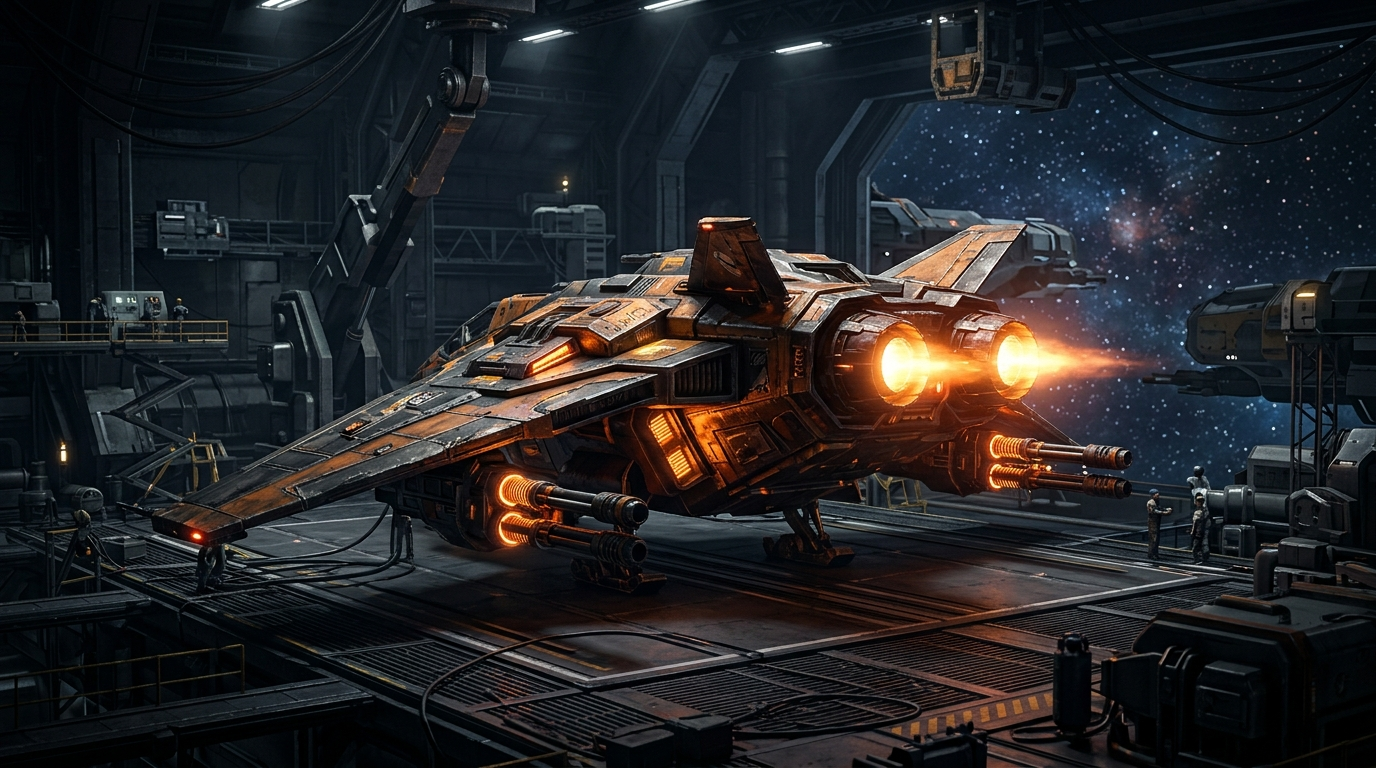
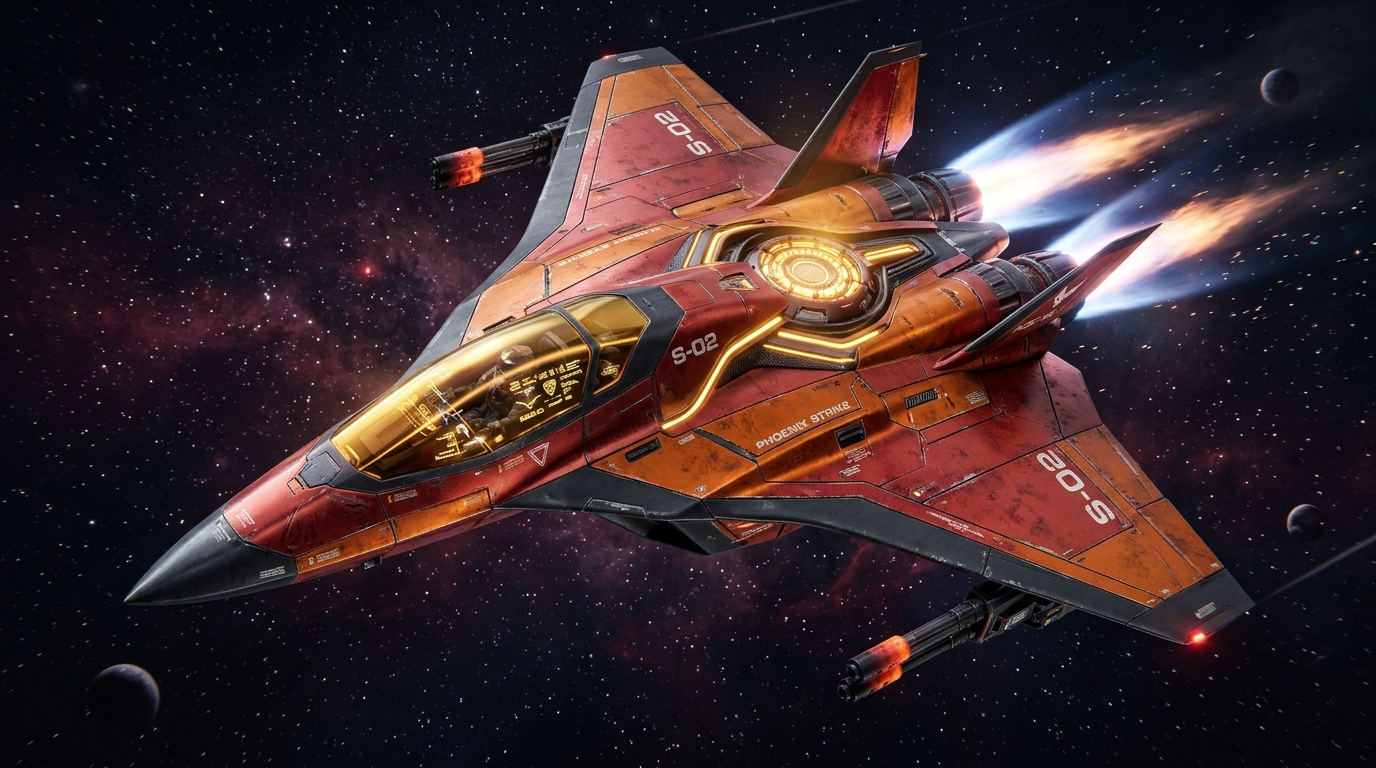
feat(assets): replace stock striker artwork with authentic S-02 Phoenix Strike starfighter render on dashboard and hangar

diff --git a/client/src/pages/DashboardPage.jsx b/client/src/pages/DashboardPage.jsx
@@ -163,7 +163,7 @@ export const DashboardPage = ({ onNavigate, onLaunchQuickCombat, _selectedShip }
   const getShipIllustration = (shipId, shipCode) => {
     const combined = `${shipId || ''} ${shipCode || ''}`.toLowerCase();
     if (combined.includes('nova') || combined.includes('z05') || combined.includes('z-05')) return '/assets/ships/ship_nova.jpg';
-    if (combined.includes('phoenix') || combined.includes('s02') || combined.includes('s-02')) return '/assets/ships/ship_phoenix.jpg';
+    if (combined.includes('phoenix') || combined.includes('s02') || combined.includes('s-02')) return '/assets/ships/ship_phoenix.jpg?v=2';
     if (combined.includes('shadow') || combined.includes('x03') || combined.includes('x-03')) return '/assets/ships/ship_shadow.jpg';
     if (combined.includes('titan') || combined.includes('r04') || combined.includes('r-04')) return '/assets/ships/ship_titan.jpg';
     return '/assets/ships/ship_orbitron.jpg';

diff --git a/client/src/components/HangarView.jsx b/client/src/components/HangarView.jsx
@@ -40,7 +40,7 @@ const SHIPS_SHOWCASE_CATALOG = [
     classType: 'Heavy Assault Striker',
     tagline: 'High Firepower Anti-Capital Craft',
     description: 'A heavy strike craft forged with supercritical thermal blasters. Sacrifices slight handling for devastating armor-piercing damage output.',
-    image: '/assets/ships/ship_phoenix.jpg',
+    image: '/assets/ships/ship_phoenix.jpg?v=2',
     baseStats: { firepower: 94, shield: 50, speed: 75, maneuver: 70 },
     primaryWeapon: 'Twin Thermal Beam Cannons',
     secondaryWeapon: 'Concussion Torpedoes',
